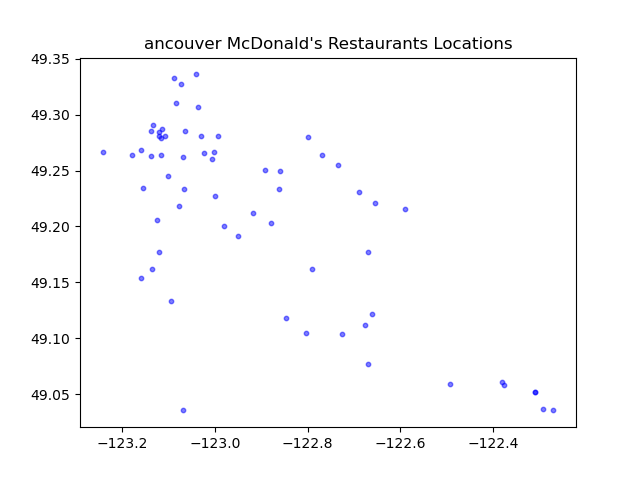
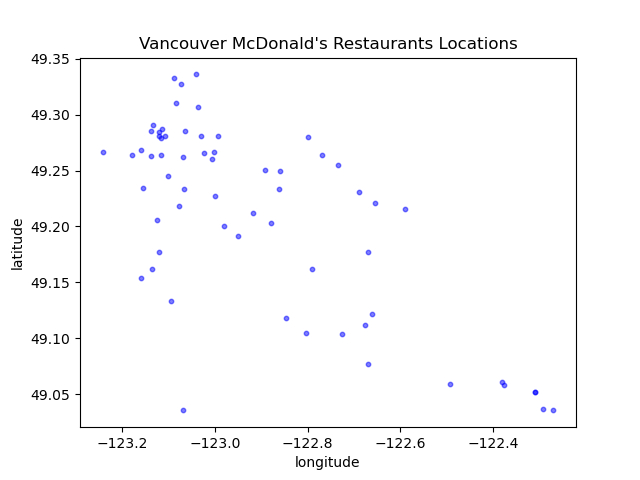
heat map added

Changed region(s): [[0.2188, 0.0625, 0.8125, 0.125], [0.4688, 0.9375, 0.5625, 1.0], [0.0, 0.4688, 0.0312, 0.5625]]

diff --git a/data/heat_map.html b/data/heat_map.html
@@ -1,0 +1,75 @@
+<!DOCTYPE html>
+<html>
+<head>
+    
+    <meta http-equiv="content-type" content="text/html; charset=UTF-8" />
+    
+        <script>
+            L_NO_TOUCH = false;
+            L_DISABLE_3D = false;
+        </script>
+    
+    <style>html, body {width: 100%;height: 100%;margin: 0;padding: 0;}</style>
+    <style>#map {position:absolute;top:0;bottom:0;right:0;left:0;}</style>
+    <script src="https://cdn.jsdelivr.net/npm/leaflet@1.6.0/dist/leaflet.js"></script>
+    <script src="https://code.jquery.com/jquery-1.12.4.min.js"></script>
+    <script src="https://maxcdn.bootstrapcdn.com/bootstrap/3.2.0/js/bootstrap.min.js"></script>
+    <script src="https://cdnjs.cloudflare.com/ajax/libs/Leaflet.awesome-markers/2.0.2/leaflet.awesome-markers.js"></script>
+    <link rel="stylesheet" href="https://cdn.jsdelivr.net/npm/leaflet@1.6.0/dist/leaflet.css"/>
+    <link rel="stylesheet" href="https://maxcdn.bootstrapcdn.com/bootstrap/3.2.0/css/bootstrap.min.css"/>
+    <link rel="stylesheet" href="https://maxcdn.bootstrapcdn.com/bootstrap/3.2.0/css/bootstrap-theme.min.css"/>
+    <link rel="stylesheet" href="https://maxcdn.bootstrapcdn.com/font-awesome/4.6.3/css/font-awesome.min.css"/>
+    <link rel="stylesheet" href="https://cdnjs.cloudflare.com/ajax/libs/Leaflet.awesome-markers/2.0.2/leaflet.awesome-markers.css"/>
+    <link rel="stylesheet" href="https://cdn.jsdelivr.net/gh/python-visualization/folium/folium/templates/leaflet.awesome.rotate.min.css"/>
+    
+            <meta name="viewport" content="width=device-width,
+                initial-scale=1.0, maximum-scale=1.0, user-scalable=no" />
+            <style>
+                #map_69ac0c3859fb48bae450a796e0309123 {
+                    position: relative;
+                    width: 100.0%;
+                    height: 100.0%;
+                    left: 0.0%;
+                    top: 0.0%;
+                }
+            </style>
+        
+    <script src="https://cdn.jsdelivr.net/gh/python-visualization/folium@main/folium/templates/leaflet_heat.min.js"></script>
+</head>
+<body>
+    
+    
+            <div class="folium-map" id="map_69ac0c3859fb48bae450a796e0309123" ></div>
+        
+</body>
+<script>
+    
+    
+            var map_69ac0c3859fb48bae450a796e0309123 = L.map(
+                "map_69ac0c3859fb48bae450a796e0309123",
+                {
+                    center: [49.2, -122.7],
+                    crs: L.CRS.EPSG3857,
+                    zoom: 11,
+                    zoomControl: true,
+                    preferCanvas: false,
+                }
+            );
+
+            
+
+        
+    
+            var tile_layer_b4b6cb0f64155719696f10a0858634af = L.tileLayer(
+                "https://{s}.tile.openstreetmap.org/{z}/{x}/{y}.png",
+                {"attribution": "Data by \u0026copy; \u003ca href=\"http://openstreetmap.org\"\u003eOpenStreetMap\u003c/a\u003e, under \u003ca href=\"http://www.openstreetmap.org/copyright\"\u003eODbL\u003c/a\u003e.", "detectRetina": false, "maxNativeZoom": 18, "maxZoom": 18, "minZoom": 0, "noWrap": false, "opacity": 1, "subdomains": "abc", "tms": false}
+            ).addTo(map_69ac0c3859fb48bae450a796e0309123);
+        
+    
+            var heat_map_3f7d21919b2b3b59eabf1223d65156b9 = L.heatLayer(
+                [[49.1327053, -123.0991859], [49.1330103, -123.0955358], [49.2347493, -123.1547249], [49.2427149, -123.004048], [49.2318234, -123.0090888], [49.2787084, -122.8066737], [49.2601826, -123.0056472], [49.265883, -123.024278], [49.1401463, -123.137885], [49.2661113, -123.2420861], [49.2906218, -123.133851], [49.3264332, -123.1392875], [49.2875631, -123.129718], [49.1398614, -123.137394], [49.1330851, -123.0940869], [49.1329977, -123.0973124], [49.2860548, -123.125171], [49.2860886, -123.125231], [49.0558043, -122.2722298], [49.1771813, -122.6691551], [49.2116716, -122.924285], [49.1693268, -122.6664782], [49.1694686, -122.665754], [49.1126928, -122.6723021], [49.1997306, -122.778462], [49.2018963, -122.91265], [49.2501163, -122.892302], [49.2468123, -123.0683041], [49.2191586, -122.969566], [49.2196492, -122.969212], [49.2196001, -122.9683], [49.2196141, -122.9685904], [49.2218272, -122.9969589], [49.2331055, -123.0657587], [49.2182564, -123.0773813], [49.2256116, -123.0777236], [49.2634907, -123.11626], [49.2633536, -123.1137363], [49.2634886, -123.1215189], [49.2195297, -123.0408142], [49.2725297, -123.056204], [49.2195995, -122.968017], [49.2186313, -122.955309], [49.2128537, -122.9368713], [49.2567827, -123.184916], [49.171823, -122.6674842], [49.3264468, -123.120425], [49.2908865, -123.1342622], [49.1659998, -122.6645407], [49.1186793, -122.6698975], [49.218633, -122.9551616], [49.2258643, -122.9969705], [49.2254547, -122.9975777], [49.2254531, -122.9968869], [49.2257668, -122.9968006], [49.2258275, -122.9969398], [49.2257836, -122.9978073], [49.2254197, -122.9969699], [49.2254951, -122.9968289], [49.2254058, -122.9973612], [49.2284147, -123.00452], [49.2508506, -122.8947628], [49.251496, -122.896669], [49.2808969, -123.1073143], [49.2799281, -123.106678], [49.1653656, -122.6614878], [49.1674933, -122.6674453], [49.1633833, -122.6594915], [49.1660159, -122.6635496], [49.1672102, -122.6661043], [49.0498661, -122.311635], [49.0498031, -122.3114531], [49.0496405, -122.3118348], [49.0497721, -122.311822], [49.049844, -122.311536], [49.11765, -122.668976], [49.1707675, -123.135859], [49.2540332, -122.7388698], [49.2548653, -122.7354267], [49.2541361, -122.7388679], [49.2544572, -122.7380216], [49.1364128, -122.889114], [49.1614935, -122.8908325], [49.1614786, -122.89107], [49.2027477, -122.8795076], [49.2634307, -123.138066], [49.3278002, -123.1395422], [49.3262061, -123.1361153], [49.2137355, -122.9389574], [49.1909246, -122.8908844], [49.1909164, -122.8910492], [49.0530329, -122.3170562], [49.3239681, -123.102784], [49.1709566, -123.181556], [49.2730334, -123.1003915], [49.2332678, -123.101274], [49.2739585, -123.0980509], [49.1537523, -123.1584726], [49.1548975, -123.1578804], [49.2336486, -123.0361183], [49.2047372, -123.1308338], [49.2111569, -123.140859], [49.2121488, -123.1409022], [49.1881812, -123.111679], [49.267402, -123.2495964], [49.2673302, -123.2497546], [49.044471, -122.777214], [49.1775901, -123.1221479], [49.1784334, -123.121667], [49.1781724, -123.121108], [49.178038, -123.121766], [49.1877519, -123.130436], [49.1687064, -123.135534], [49.2426381, -123.059223], [49.0365053, -122.2910975], [49.10485, -122.8028182], [49.262628, -123.0874661], [49.2798153, -123.123638], [49.2716748, -123.0947341], [49.2717323, -123.0948814], [49.3237469, -123.1108931], [49.3240623, -123.1087802], [49.2656704, -123.2542726], [49.090412, -123.078228], [49.1616399, -123.1358929], [49.1540431, -123.12496], [49.1343339, -123.0651422], [49.1717889, -123.1359234], [49.1321157, -123.0947566], [49.1322997, -123.0914934], [49.0359205, -123.0691691], [49.1644702, -123.1361623], [49.2267483, -123.128868], [49.1912497, -123.1286598], [49.2605857, -122.8892018], [49.0905017, -123.080352], [49.1960345, -123.1771649], [49.231039, -123.006178], [49.2307097, -123.007297], [49.1883248, -122.9517415], [49.1916994, -122.9502443], [49.1912607, -122.947297], [49.1564728, -122.2095408], [49.1863895, -122.8474565], [49.1868482, -122.8490317], [49.1871184, -122.8490357], [49.1868448, -122.8492283], [49.1871177, -122.8491133], [49.1871155, -122.8493572], [49.1871697, -122.849752], [49.1871291, -122.849602], [49.1871919, -122.849834], [49.1871146, -122.8494584], [49.186992, -122.84998], [49.186768, -122.8499392], [49.1886831, -122.802172], [49.127319, -122.845123], [49.2808316, -123.0457204], [49.1913787, -122.8449032], [49.0611385, -122.3807955], [49.0612765, -122.380797], [49.0612017, -122.379992], [49.0609014, -122.3803606], [49.1374505, -122.8907988], [49.2209307, -122.60016], [49.2191699, -122.658742], [49.2185304, -122.65417], [49.2183839, -122.653467], [49.218154, -122.643678], [49.2171923, -122.6065734], [49.2199383, -122.6019137], [49.2206364, -122.5575678], [49.1980237, -122.9785339], [49.1047695, -122.8042283], [49.2273867, -122.9997206], [49.258421, -122.9554866], [49.0522053, -122.3129581], [49.0494651, -122.259796], [49.057156, -122.2740055], [49.1917192, -123.111856], [49.2372522, -123.0325583], [49.3131411, -123.0768211], [49.2896102, -123.138533], [49.2897561, -123.1383258], [49.2304571, -122.6901772], [49.1599802, -122.401675], [49.2133453, -122.919727], [49.1191003, -122.7315965], [49.2284049, -123.0908719], [49.1050087, -122.659888], [49.1051536, -122.6594585], [49.2393218, -122.963544], [49.2801081, -123.125117], [49.325981, -123.142336], [49.0326388, -122.801449], [49.1167896, -122.6795827], [49.1154625, -122.6795039], [49.1046782, -122.798084], [49.1995895, -122.9125081], [49.2293878, -123.0904982], [49.2766649, -123.1272], [49.2823756, -123.1084859], [49.2352507, -123.1557393], [49.2376572, -123.1556393], [49.263878, -123.205001], [49.2637428, -123.2104101], [49.2630686, -123.115977], [49.2676227, -123.0035185], [49.280548, -123.121366], [49.28109, -123.119096], [49.2616851, -123.0700316], [49.2831516, -123.1154178], [49.26262, -122.8383183], [49.2631825, -122.8402209], [49.2623856, -123.057011], [49.2608512, -123.1161648], [49.3267728, -123.137509], [49.1774976, -123.120144], [49.1691756, -122.958657], [49.1720147, -122.946137], [49.1039933, -122.6615637], [49.1958534, -123.176981], [49.27789, -122.7952302], [49.2861606, -123.124206], [49.2790389, -122.8285085], [49.2792178, -122.8288779], [49.2889429, -123.139016], [49.2060719, -123.125509], [49.2510662, -123.0786825], [49.1624616, -122.7905606], [49.2390725, -123.065003], [49.2434728, -123.0621724], [49.2325226, -123.090106], [49.2525622, -122.898141], [49.2764887, -123.118966], [49.2838437, -123.105367], [49.2566726, -122.7472741], [49.255495, -122.7466809], [49.2007348, -122.9812202], [49.2230001, -122.9139689], [49.2263872, -123.0042373], [49.2268102, -123.0040761], [49.2259651, -123.002616], [49.226408, -123.0036228], [49.2260065, -123.002356], [49.2257698, -122.9969729], [49.2257375, -122.996441], [49.1551644, -123.123812], [49.1544601, -123.124749], [49.1856947, -122.801637], [49.1838653, -123.0929638], [49.1838703, -123.0933981], [49.2787971, -123.1234582], [49.2811945, -123.012539], [49.0519086, -122.309408], [49.0562149, -122.380711], [49.1353879, -123.0647334], [49.2228133, -122.9835929], [49.2280822, -122.997835], [49.2769818, -122.85501], [49.1942617, -122.844799], [49.2094689, -123.1164992], [49.0910725, -122.607479], [49.0910917, -122.607647], [49.2266714, -123.0905213], [49.1767688, -122.673566], [49.2110929, -123.1407058], [49.2484965, -123.0899419], [49.1996433, -122.8114213], [49.2838178, -123.11328], [49.2789629, -122.915519], [49.2785176, -123.1157177], [49.0548679, -122.371284], [49.1674085, -122.800863], [49.0340836, -122.800945], [49.0375485, -122.8009329], [49.0396209, -122.801584], [49.0450983, -122.800801], [49.0463697, -122.801681], [49.0452033, -122.7781947], [49.0431711, -122.7802231], [49.0430859, -122.7797305], [49.2684742, -123.1859648], [49.3140173, -123.079082], [49.0366076, -122.2921298], [49.035729, -122.2921646], [49.2789855, -122.7989764], [49.2266974, -122.8930224], [49.1038027, -122.7250223], [49.1037705, -122.728643], [49.2781282, -122.8112429], [49.2782009, -122.8115542], [49.2044232, -122.90607], [49.2318607, -123.029381], [49.1917274, -123.080854], [49.1921329, -123.08572], [49.1917185, -123.1098172], [49.2312133, -122.9064669], [49.2469453, -122.7499988], [49.3125664, -123.0822132], [49.3124327, -123.08221], [49.188908, -122.80246], [49.1909939, -122.9498358], [49.2798348, -122.966114], [49.2418492, -122.761466], [49.1557928, -122.9128469], [49.1709535, -123.182439], [49.2059449, -123.029648], [49.2812021, -122.9998854], [49.3207939, -123.0955757], [49.285126, -123.0640036], [49.0412463, -122.2207816], [49.0406638, -122.220198], [49.0406625, -122.2200849], [49.2841267, -123.1142755], [49.1588797, -122.78178], [49.2186099, -122.9567528], [49.2313674, -122.8933216], [49.2230985, -122.9821688], [49.2811705, -123.120411], [49.1338651, -122.3248304], [49.2056876, -122.8666886], [49.1044656, -122.6598376], [49.0567827, -122.8007447], [49.1637059, -122.6604812], [49.2801317, -122.828151], [49.3210825, -123.0956321], [49.288332, -123.122596], [49.2871644, -123.1197099], [49.3329498, -123.0884842], [49.226217, -123.065504], [49.2625141, -123.1527767], [49.3066775, -123.0365159], [49.3116539, -123.080344], [49.1891942, -122.80198], [49.1893656, -122.8022609], [49.1888105, -122.8042707], [49.1889257, -122.8021446], [49.1892575, -122.8026063], [49.1893943, -122.80248], [49.1889728, -122.8025965], [49.0337483, -122.2939428], [49.0488685, -122.2901519], [49.2800699, -122.969768], [49.2801689, -122.966568], [49.2271464, -122.8418011], [49.2757748, -123.120516], [49.2765618, -123.119369], [49.1039465, -122.7305423], [49.1034796, -122.732176], [49.1036626, -122.7326073], [49.1187952, -122.8914653], [49.1686767, -122.5812108], [49.1267991, -122.6235305], [49.0892837, -123.0800697], [49.0896812, -123.0804882], [49.0906097, -123.0802207], [49.2272788, -123.0001497], [49.2880327, -123.1236171], [49.0549034, -122.3191707], [49.0399745, -122.2690161], [49.2776544, -123.125186], [49.2257641, -122.9978351], [49.2129995, -122.9211009], [49.1774901, -123.1292862], [49.2129842, -122.9199062], [49.1320952, -123.099192], [49.2209188, -122.662326], [49.1776035, -122.6721562], [49.214159, -122.9890244], [49.1306397, -122.3180023], [49.1320933, -122.3220594], [49.1326939, -122.320804], [49.1327007, -122.3193809], [49.2775029, -123.125931], [49.2182528, -122.652715], [49.0459218, -122.7821538], [49.231433, -123.031638], [49.2635775, -122.8870037], [49.2778449, -123.1276301], [49.2779076, -123.1277317], [49.21241, -122.922074], [49.2124557, -122.9223287], [49.2187177, -122.5575533], [49.2176898, -122.5981926], [49.2168888, -122.5992486], [49.2169124, -122.5998873], [49.2151458, -122.5895762], [49.1291588, -122.322857], [49.2137412, -122.939049], [49.04773, -122.7850621], [49.1627634, -122.6341605], [49.213668, -122.9389489], [49.1916929, -123.1106699], [49.1557506, -122.9115883], [49.2304323, -122.6916217], [49.2721601, -122.786413], [49.286779, -123.141341], [49.2638003, -123.1405912], [49.2560819, -123.115394], [49.2639753, -123.171349], [49.2625523, -123.0693702], [49.2628756, -123.0695249], [49.2637809, -123.1145448], [49.2579867, -123.0449264], [49.119491, -122.6652549], [49.1557887, -122.9126704], [49.1182418, -122.8461917], [49.0758884, -122.6698849], [49.0764542, -122.6707002], [49.0902235, -122.607215], [49.040855, -123.0886394], [49.2269711, -123.1287459], [49.226921, -123.128806], [49.2179441, -122.6483993], [49.2093486, -123.1167129], [49.2521275, -122.7364115], [49.1576414, -122.890742], [49.335939, -123.0390148], [49.1486894, -123.181721], [49.0585166, -122.3794952], [49.05866, -122.380541], [49.0586766, -122.3804894], [49.2845287, -123.1252531], [49.0512088, -122.3337933], [49.0512463, -122.3338254], [49.230899, -123.090797], [49.2805438, -122.7929451], [49.2815417, -123.1211798], [49.2833798, -123.116411], [49.1326485, -123.0915094], [49.1326408, -123.0911561], [49.2811916, -122.7958586], [49.198074, -122.812044], [49.2251548, -123.1018741], [49.2776678, -123.1266852], [49.326995, -123.0724441], [49.2765795, -122.7965015], [49.2599136, -123.101389], [49.245244, -123.1015532], [49.2488211, -122.862412], [49.2492559, -122.8670655], [49.2183451, -123.0773794], [49.2812333, -123.132309], [49.1054662, -122.8005337], [49.1365029, -123.0259053], [49.2810698, -123.120576], [49.0451362, -122.294175], [49.2703957, -123.105986], [49.2646355, -123.115076], [49.2630818, -123.1264173], [49.2711559, -123.1358083], [49.2283742, -122.8481876], [49.2512037, -122.8925446], [49.2332549, -123.034794], [49.0890208, -122.1207999], [49.2795971, -123.117415], [49.2796191, -123.117481], [49.132705, -122.3390044], [49.1326073, -122.339682], [49.2012077, -122.913267], [49.2010902, -122.9125135], [49.1487386, -123.1358977], [49.2873965, -123.1143665], [49.2890568, -123.1146229], [49.1904248, -122.8448935], [49.0562744, -122.800567], [49.0557436, -122.800677], [49.3360146, -123.040592], [49.337224, -123.0393895], [49.337148, -123.039391], [49.3057451, -123.033365], [49.306933, -123.034556], [49.1606309, -122.6672201], [49.1624742, -122.6564355], [49.1822909, -122.84436], [49.1829337, -122.844312], [49.2634282, -123.117023], [49.2629456, -123.0972191], [49.2544914, -123.101278], [49.2541445, -123.101278], [49.2126549, -122.920993], [49.224011, -122.89263], [49.1291732, -122.322729], [49.1407186, -122.0060007], [49.2809841, -123.0574196], [49.2778413, -122.79513], [49.2696735, -123.1459612], [49.2536661, -122.918492], [49.2803076, -123.117925], [49.2858999, -123.126487], [49.1139708, -122.6702357], [49.2740753, -123.1220882], [49.2192667, -123.0408347], [49.2188696, -123.0401823], [49.0513654, -122.6922199], [49.0520083, -122.6920382], [49.0521626, -122.6920704], [49.2808428, -123.00413], [49.2909157, -123.134307], [49.2917979, -123.1352263], [49.2761557, -123.128164], [49.2839142, -123.1123573], [49.1905117, -122.9504389], [49.1903259, -122.9491728], [49.0519086, -122.309441], [49.0589538, -122.4922744], [49.0580042, -122.4919543], [49.2637503, -123.024212], [49.2545538, -123.0213097], [49.0244881, -123.069153], [49.3066055, -123.008743], [49.1736004, -123.1475891], [49.1979422, -122.9748877], [49.3273947, -123.072432], [49.284191, -123.115916], [49.2308106, -123.090808], [49.2335124, -122.862454], [49.2031768, -122.8792546], [49.2802821, -122.7991912], [49.1562658, -122.8899699], [49.3359055, -123.0376105], [49.2579872, -123.1685632], [49.2445767, -123.1539027], [49.1980528, -122.978715], [49.1916628, -122.82362], [49.1156629, -122.6823021], [49.0601181, -122.4943564], [49.0592295, -122.4922766], [49.2664116, -123.014025], [49.2627174, -123.1000189], [49.2713215, -122.755135], [49.2718087, -122.7556464], [49.2713348, -122.7556241], [49.2847682, -123.1210687], [49.2617463, -123.0696025], [49.2616597, -123.0696079], [49.1645574, -122.6646365], [49.2366392, -122.852996], [49.2845146, -123.1123326], [49.2845282, -123.1120539], [49.110595, -122.6768607], [49.0899906, -123.080656], [49.2961888, -122.8035842], [49.2790508, -122.8292606], [49.2796822, -123.126535], [49.1114094, -122.6753063], [49.0458259, -122.776698], [49.042618, -122.779745], [49.220176, -122.662922], [49.1143031, -122.6752938], [49.1142429, -122.675368], [49.1142463, -122.675617], [49.0428945, -122.79105], [49.2591364, -122.955341], [49.0372607, -122.2707686], [49.2668547, -123.009283], [49.1027065, -122.6449963], [49.2255679, -122.997972], [49.137448, -122.8912035], [49.2734, -122.7884457], [49.1509023, -122.8890648], [49.2472107, -122.893513], [49.1245208, -122.7021725], [49.0908788, -123.0833668], [49.2655577, -123.1199868], [49.263332, -123.1329176], [49.2633326, -123.1328362], [49.3163612, -122.9706521], [49.3164521, -122.969311], [49.316207, -122.9710414], [49.2824302, -122.800391], [49.1852228, -122.800584], [49.1869381, -122.8000621], [49.0577015, -122.31523], [49.220638, -122.6556085], [49.2208931, -122.656626], [49.2210405, -122.655669], [49.2183247, -122.644466], [49.2198076, -122.646793], [49.2635006, -122.88703], [49.2202683, -122.649603], [49.2812092, -123.0089295], [49.2813643, -123.012536], [49.1201645, -122.8449823], [49.1332371, -123.158294], [49.3284936, -123.1615997], [49.3281621, -123.1617885], [49.3285372, -123.1566255], [49.327463, -123.153993], [49.1908367, -122.9496788], [49.2180426, -122.5989375], [49.2178913, -122.5990161], [49.1323894, -122.667405], [49.280495, -123.121965], [49.1763937, -122.8887016], [49.1763072, -122.8886974], [49.3216656, -123.0981576], [49.3202752, -123.092594], [49.1203766, -122.8923201], [49.0308509, -123.0691854], [49.0311535, -123.0691973], [49.0899836, -123.082995], [49.2823104, -122.800397], [49.0600466, -122.4938417], [49.0488685, -122.2898692], [49.2359278, -123.044715], [49.217228, -122.5936509], [49.1209902, -122.663999], [49.1212328, -122.6617515], [49.2314781, -123.0052457], [49.2643017, -123.0039139], [49.2059018, -123.0110355], [49.2059041, -123.0111841], [49.1926706, -123.1808659], [49.0408335, -122.2697912], [49.0505395, -122.3228004], [49.2629671, -123.0988218], [49.1985703, -122.779451], [49.2792636, -123.107846], [49.2747568, -123.1002559], [49.278183, -122.910465], [49.0502826, -122.3175498], [49.2740362, -123.1222575], [49.2740162, -123.122343], [49.3737353, -123.2746745], [49.1292582, -122.3204815], [49.2682035, -123.1463002], [49.2683578, -123.1595125], [49.1309188, -122.3195503], [49.1309522, -122.319302], [49.0385355, -122.270425], [49.2682522, -123.1486085], [49.2251047, -123.1018745], [49.3280098, -123.1539437], [49.2618324, -122.7816776], [49.0581533, -122.4939241], [49.120381, -122.6629612], [49.1121157, -122.6506343], [49.1097163, -122.6789018], [49.1170227, -122.6751086], [49.1631911, -122.6612483], [49.1631557, -122.6618859], [49.2858144, -123.126964], [49.2058366, -123.031976], [49.2598873, -122.7570312], [49.0585182, -122.3788725], [49.1145951, -122.6734593], [49.2780845, -122.912071], [49.2777723, -122.9114568], [49.2778577, -122.9119847], [49.2415048, -123.0577897], [49.2659168, -123.2431691], [49.2664689, -123.2433848], [49.1700001, -123.137734], [49.1571359, -122.779182], [49.1321141, -123.0946175], [49.1321211, -123.0952282], [49.3262139, -123.1359438], [49.0591051, -122.4938845], [49.1036551, -122.4921919], [49.048636, -122.2926136], [49.1989332, -122.810257], [49.1057505, -122.802128], [49.2797002, -122.798845], [49.2811772, -122.9944375], [49.2808356, -123.0305122], [49.281211, -123.011999], [49.1294146, -122.318647], [49.3276235, -123.13544], [49.2859088, -123.1119662], [49.2758814, -122.7909785], [49.0580197, -122.3767398], [49.0604509, -122.38281], [49.2280148, -123.002893], [49.1188015, -122.8237596], [49.1187754, -122.8241543], [49.133789, -122.8406633], [49.1337792, -122.8411903], [49.135356, -122.843062], [49.138246, -122.8450644], [49.1381113, -122.8449545], [49.1200098, -122.733651], [49.0268665, -123.0682461], [49.2633629, -123.1342581], [49.2637211, -123.1347841], [49.2637686, -123.1632614], [49.2122326, -122.9188879], [49.2124536, -122.919196], [49.2123348, -122.919035], [49.2626769, -123.0904448], [49.0582577, -122.8024115], [49.2547671, -122.737921], [49.2584314, -123.030685], [49.3250044, -123.1364242], [49.3250041, -123.1363632], [49.3250647, -123.1362282], [49.3250943, -123.1362265], [49.3251225, -123.1362268], [49.3251489, -123.1362279], [49.3251786, -123.1362279], [49.3252066, -123.1362289], [49.325227, -123.1362027], [49.3250412, -123.1364007], [49.325245, -123.1363322], [49.2613107, -122.78233], [49.2640388, -123.178066], [49.2666817, -123.2425065], [49.0249879, -122.2661425], [49.1498513, -122.255622], [49.2638501, -123.1448497], [49.0500445, -122.3243424], [49.2869324, -123.1246607], [49.0385365, -122.2935247], [49.2858989, -123.1122871], [49.2746568, -122.790996], [49.1981032, -122.9791138], [49.2191054, -123.066189], [49.1344759, -122.8918497], [49.0337778, -122.8014136], [49.1258786, -122.7051707], [49.0522409, -122.325325], [49.0418988, -123.0829669], [49.0406229, -123.0871553], [49.0419035, -123.0853223], [49.0404467, -123.0878766], [49.0399045, -123.0888623], [49.035275, -123.0884974], [49.035036, -123.0876345], [49.2546828, -122.7379283], [49.2533322, -122.7403668], [49.2534148, -122.7397591], [49.2563016, -122.7482111], [49.3102299, -123.0836], [49.3200814, -123.070244], [49.3208761, -123.0721449], [49.2621478, -123.0447466], [49.3053018, -123.0316749], [49.2637917, -123.1399832], [49.0527901, -122.3108694], [49.197546, -123.178164], [49.197857, -123.178461], [49.197921, -123.178503], [49.336875, -123.100831], [49.3376096, -123.1024103], [49.2509753, -123.1270905], [49.038444, -122.274551], [49.2667185, -123.002065], [49.2819109, -123.1135011], [49.1890794, -122.8474254], [49.1445089, -123.003586], [49.1330626, -123.0233446], [49.0492419, -122.3007789], [49.2641666, -123.138328], [49.1139702, -122.6699507], [49.1793429, -123.0695964], [49.1144032, -122.6679644], [49.1130331, -122.665699], [49.1129178, -122.6625851], [49.1129898, -122.666724], [49.1130445, -122.665058], [49.1182538, -122.6689137], [49.2788264, -123.1155638], [49.1946688, -122.844843], [49.280165, -122.7994621], [49.3511476, -123.253673], [49.0613956, -122.8121955], [49.2887314, -123.1281326], [49.1330328, -123.0932818], [49.1917333, -123.0811267], [49.2812728, -123.0461329], [49.2242261, -122.9418], [49.2563659, -122.747394], [49.19063, -122.847976], [49.2378818, -123.031957], [49.2006229, -122.9168546], [49.2004217, -122.91752], [49.2005315, -122.9182651], [49.1248261, -122.7022827], [49.2206904, -122.976521], [49.1767465, -122.866574], [49.0901287, -122.6046687], [49.1442396, -123.1595308], [49.2620194, -122.7825183], [49.1916811, -122.8233993], [49.272795, -122.789898], [49.2738174, -122.7924448], [49.0242968, -122.267178], [49.0353251, -122.2697044], [49.2157729, -122.591045], [49.2162564, -122.5898977], [49.0274027, -122.265932], [49.0266186, -123.069696], [49.0245495, -123.0709218], [49.2695075, -122.9464295], [49.2788382, -122.9154974], [49.2617158, -122.7819994], [49.2648447, -122.771751], [49.2643466, -123.0117001], [49.2485117, -122.8659736], [49.1048644, -122.7980234], [49.1067026, -122.8014486], [49.1355602, -122.8893132], [49.2485878, -122.8185089], [49.0384515, -122.2707447], [49.0411852, -122.2205715], [49.1583928, -122.780223], [49.2276704, -123.003325], [49.2626605, -123.091518], [49.0759261, -122.6701537], [49.1026873, -122.6456899], [49.1025718, -122.6463802], [49.3242115, -123.1039789], [49.1192712, -122.662876], [49.265034, -122.7766191], [49.265092, -122.7761976], [49.2683368, -123.0000195], [49.1041067, -122.7983556], [49.1035653, -122.7975026], [49.1142452, -122.6754884], [49.1144236, -122.6756725], [49.1143101, -122.675676], [49.1143726, -122.6752938], [49.114419, -122.675293], [49.0387465, -122.2689565], [49.2677289, -123.006245], [49.2678061, -123.006243], [49.2668043, -123.0041529], [49.2843286, -123.117811], [49.0571459, -122.8017528], [49.0453315, -122.7946228], [49.045838, -122.7970156], [49.2637294, -123.211525], [49.2643475, -123.0118202], [49.0509527, -122.319626], [49.1047611, -122.6609055], [49.1569353, -122.781104], [49.0509334, -122.3384838], [49.0909422, -122.607018], [49.2815936, -123.123754], [49.0386218, -122.2745401], [49.2596044, -123.001938], [49.0417051, -123.0830195], [49.2636716, -123.2069048], [49.0500667, -122.290128], [49.0464573, -122.7758954], [49.2493142, -122.8601594], [49.2487101, -122.8585224], [49.2680441, -123.1573309], [49.1919509, -122.788943], [49.2802104, -123.1311973], [49.2797668, -123.130488], [49.2635472, -122.768576], [49.2228919, -122.9841704], [49.0611306, -122.801846], [49.0460944, -122.798505], [49.2106878, -123.0930993], [49.2383199, -123.031569], [49.1813334, -123.0694791], [49.2176091, -122.64407], [49.1620182, -122.658642], [49.1620357, -122.6586997], [49.1620712, -122.658822], [49.0493869, -122.3387758], [49.2792189, -122.8287203], [49.27692, -122.8490281], [49.1876258, -122.8459699], [49.1616124, -122.791185], [49.1342573, -122.886722], [49.1343232, -122.8885258], [49.1343226, -122.887236], [49.2059386, -123.011028], [49.1366741, -122.8869649], [49.2792846, -123.116924], [49.2640311, -123.176224], [49.1990353, -122.7781068], [49.2641153, -122.981478], [49.1978551, -122.977438], [49.0503956, -122.3275789], [49.0513645, -122.6921175], [49.2737512, -123.123314], [49.1631891, -122.873955], [49.1632955, -122.8751658], [49.1363212, -122.8897573], [49.1331361, -123.181512], [49.2184665, -122.949943], [49.1456927, -122.649051], [49.1793152, -122.8336811], [49.1743543, -122.8454271], [49.1673585, -122.800865], [49.1110781, -122.668262], [49.2852884, -123.1390222], [49.2728123, -123.1474942], [49.1643462, -122.7960114], [49.2252912, -122.9906308], [49.2639983, -123.1737583], [49.1339176, -122.8553499]],
+                {"blur": 15, "maxZoom": 1, "minOpacity": 0.2, "radius": 17}
+            ).addTo(map_69ac0c3859fb48bae450a796e0309123);
+        
+</script>
+</html>
